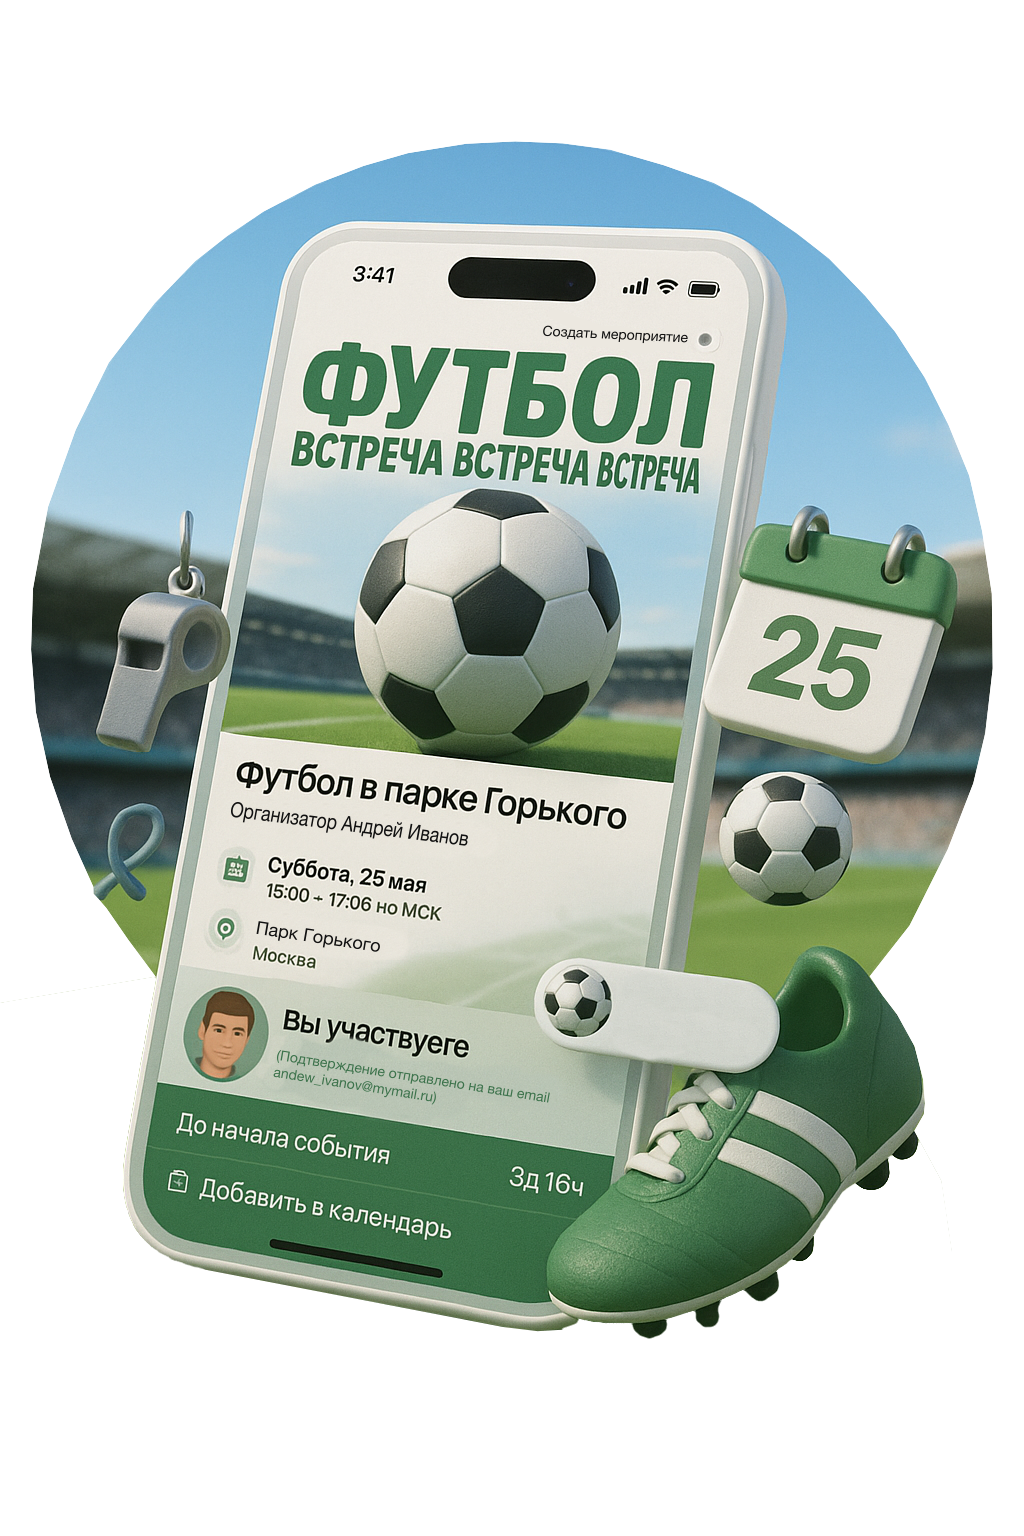
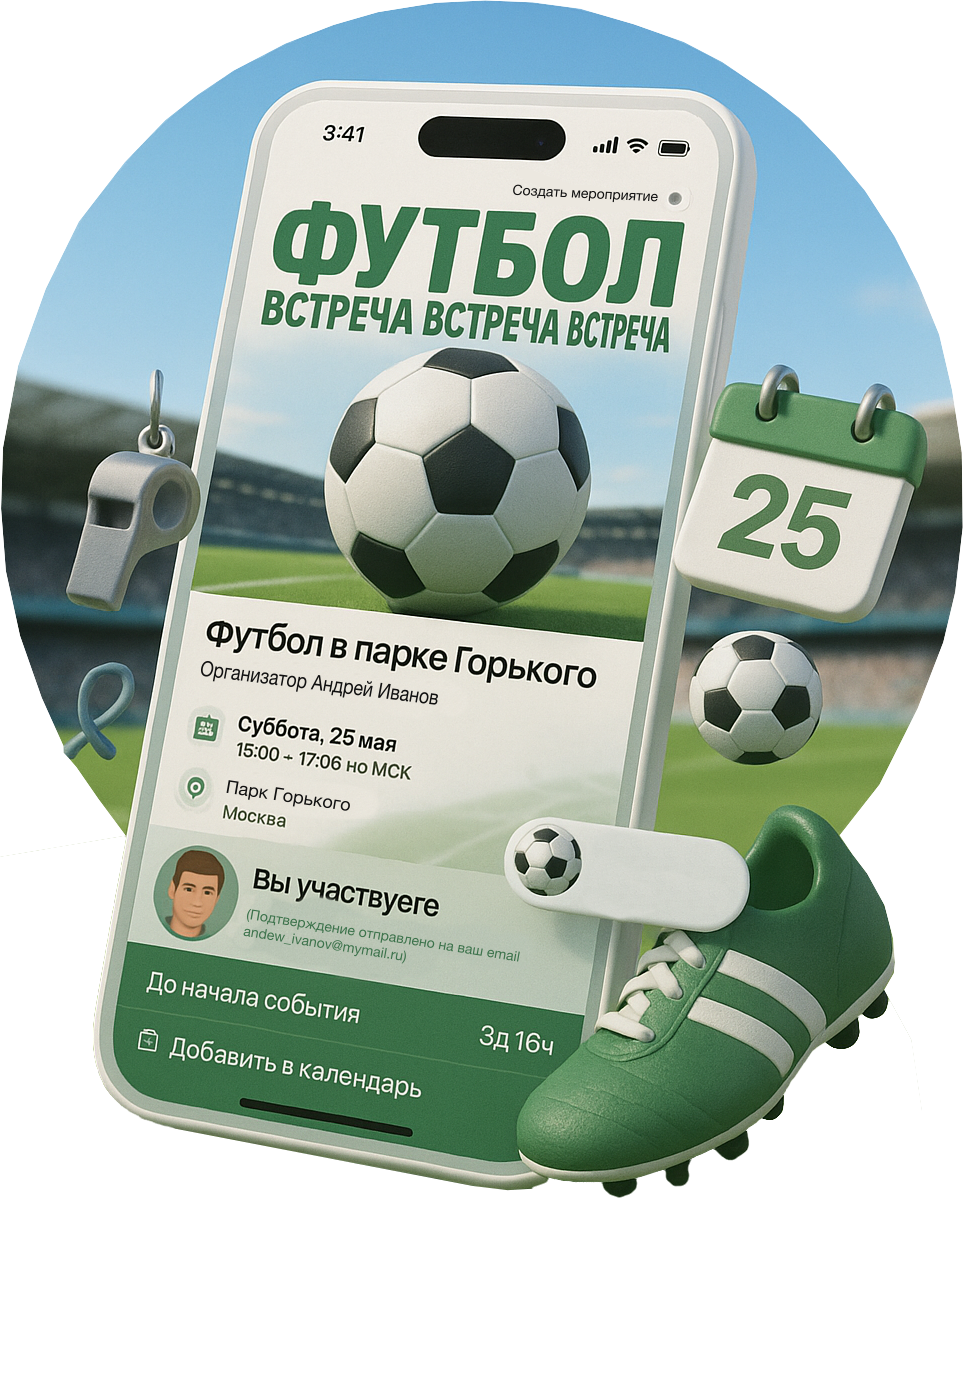
Page Image

diff --git a/src/pages/LandingPage.jsx b/src/pages/LandingPage.jsx
@@ -33,6 +33,7 @@ export default function LandingPage() {
 
   return (
     <div className="relative h-screen w-screen overflow-hidden">
+      <div className="block md:hidden h-24" />
       <canvas id="landing-canvas" style={{
         position: "fixed",
         top: 0,
@@ -42,9 +43,6 @@ export default function LandingPage() {
         height: "100vh"
       }} />
       <div className="relative z-10 flex flex-col md:flex-row items-center justify-center h-screen text-center md:text-left gap-8 px-6 md:px-24 py-6 md:py-12">
-        
-        <div className="block md:hidden h-48" />
-        
         <div className="md:w-1/2 order-1 md:order-1">
           <h1 className="text-3xl font-bold mb-4">
             Незабываемые события <span className="text-pink-500">начинаются здесь.</span>
@@ -63,7 +61,7 @@ export default function LandingPage() {
           <img
             src={landingImage}
             alt="event preview"
-            className="mx-auto md:w-full rounded"
+            className="mx-auto md:w-full max-h-screen rounded"
           />
         </div>
       </div>
